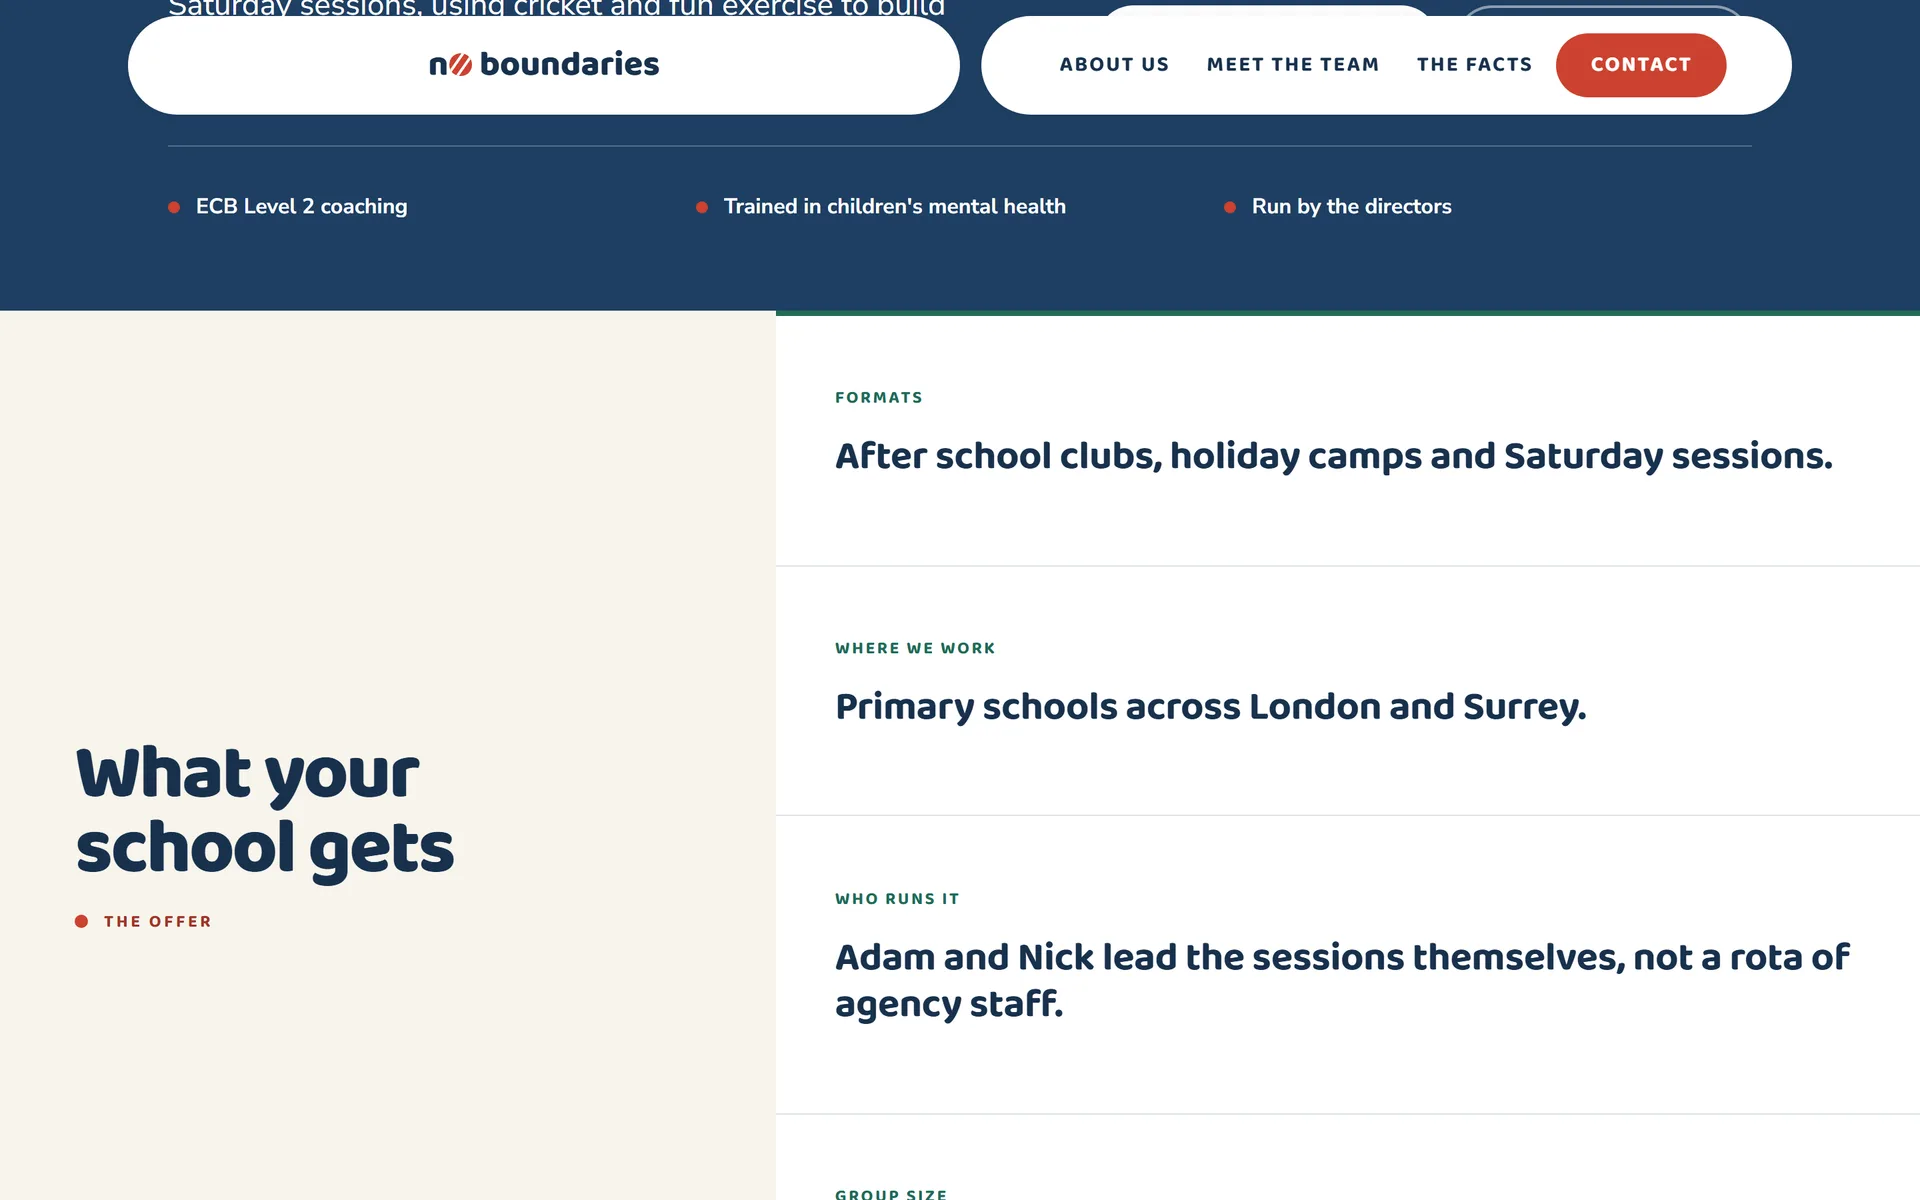
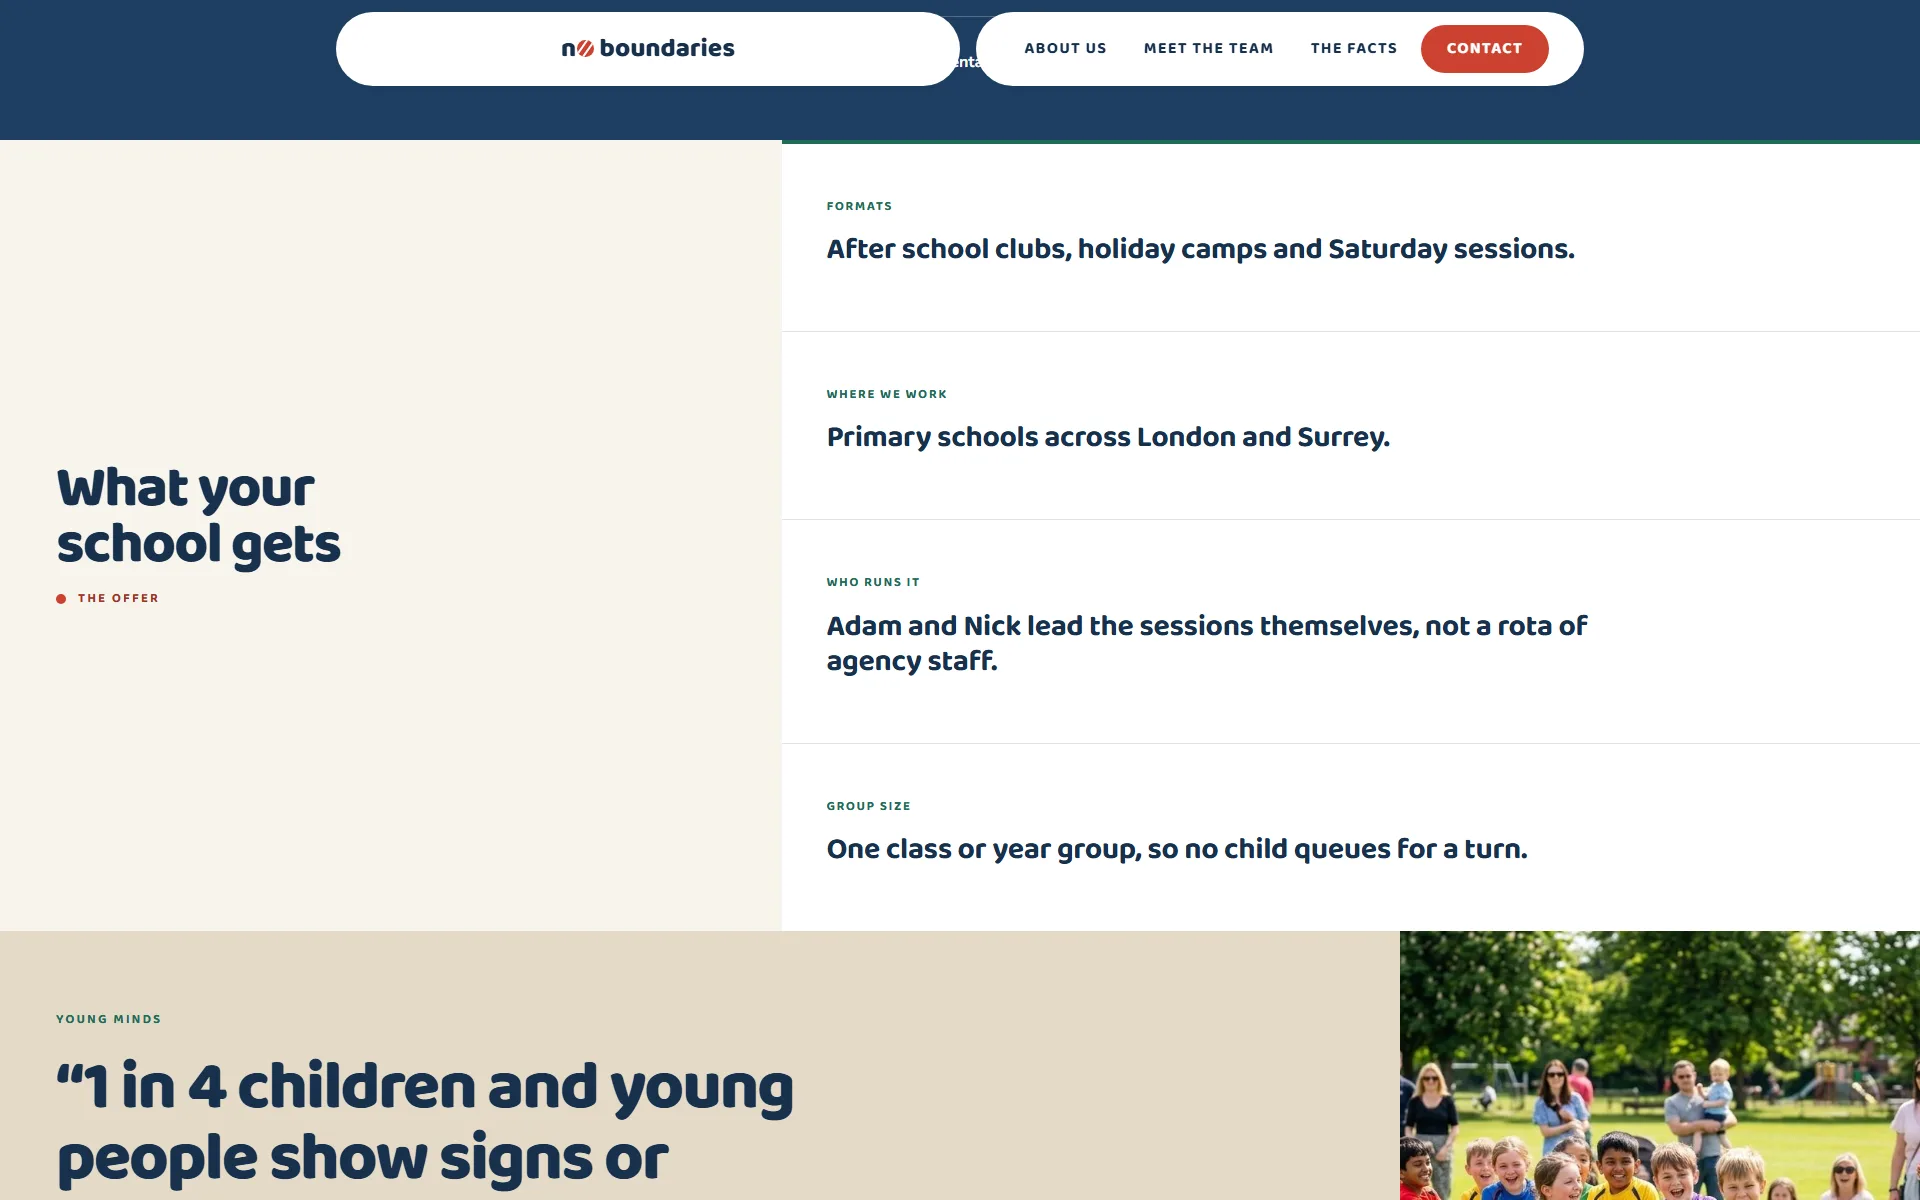
Updated screenshots for no boundaries and nick

diff --git a/projects/no-boundaries.html b/projects/no-boundaries.html
@@ -175,8 +175,8 @@
                 <span class="shot-url">index.html</span>
               </div>
               <div class="shot-view">
-                <img src="../assets/img/no-boundaries/desktop-full.webp" width="1600" height="7070" loading="lazy"
-                     alt="The full No Boundaries homepage from hero to footer: a three-photo hero wall, a navy credential strip, the offer section, a pull-quote statistic, the Physical, Mental and Social wellbeing pillars, coach bios for Adam and Nick, a vetting-checklist block, and a testimonials band">
+                <img src="../assets/img/no-boundaries/desktop-full.webp" width="1600" height="6441" loading="lazy"
+                     alt="The full No Boundaries homepage from hero to footer: a three-photo hero wall, a navy credential strip, the offer section, a pull-quote statistic, the Physical, Mental and Social wellbeing pillars, coach bios for Adam and Nick, a vetting-checklist block, a testimonials band, and the closing enquiry CTA">
               </div>
             </div>
             <figcaption>The full homepage, playing through the frame. Hover to pause. Hook, credentials, offer, pillars, coaches, proof.</figcaption>
@@ -194,7 +194,7 @@
                 <span class="shot-url">index.html</span>
               </div>
               <img src="../assets/img/no-boundaries/desktop-offer.webp" width="1920" height="1200" loading="lazy"
-                   alt="'What your school gets' section listing session formats, where the programme works, who runs it and group size as four plain facts, beside a navy credential strip reading ECB Level 2 coaching, Trained in children's mental health, Run by the directors">
+                   alt="'What your school gets' section listing session formats, where the programme works, who runs it and group size as four plain facts, each on its own ruled row beside the heading">
             </div>
             <figcaption>The offer, stated as four plain facts, not a features list.</figcaption>
           </figure>

diff --git a/work.html b/work.html
@@ -168,7 +168,7 @@
         <article class="crow row-aside-both project-item" data-category="web">
           <p class="vlabel">06</p>
           <div class="cell cell-tight">
-            <div class="c-shot"><img src="assets/img/no-boundaries/thumb.webp" alt="No Boundaries homepage hero: a three-photograph wall of a young cricketer bowling, two children laughing mid-session and a stack of hands together, under the headline &lsquo;Every child matters&rsquo;" loading="lazy"></div>
+            <div class="c-shot"><img src="assets/img/no-boundaries/thumb.webp" alt="No Boundaries homepage hero: a three-photograph wall of a boy bowling, a girl driving the ball off the front foot and a group of children celebrating with their arms up, under the headline &lsquo;Every child matters&rsquo;" loading="lazy"></div>
           </div>
           <div class="cell cell-mid">
             <h2 class="c-title">No Boundaries</h2>
